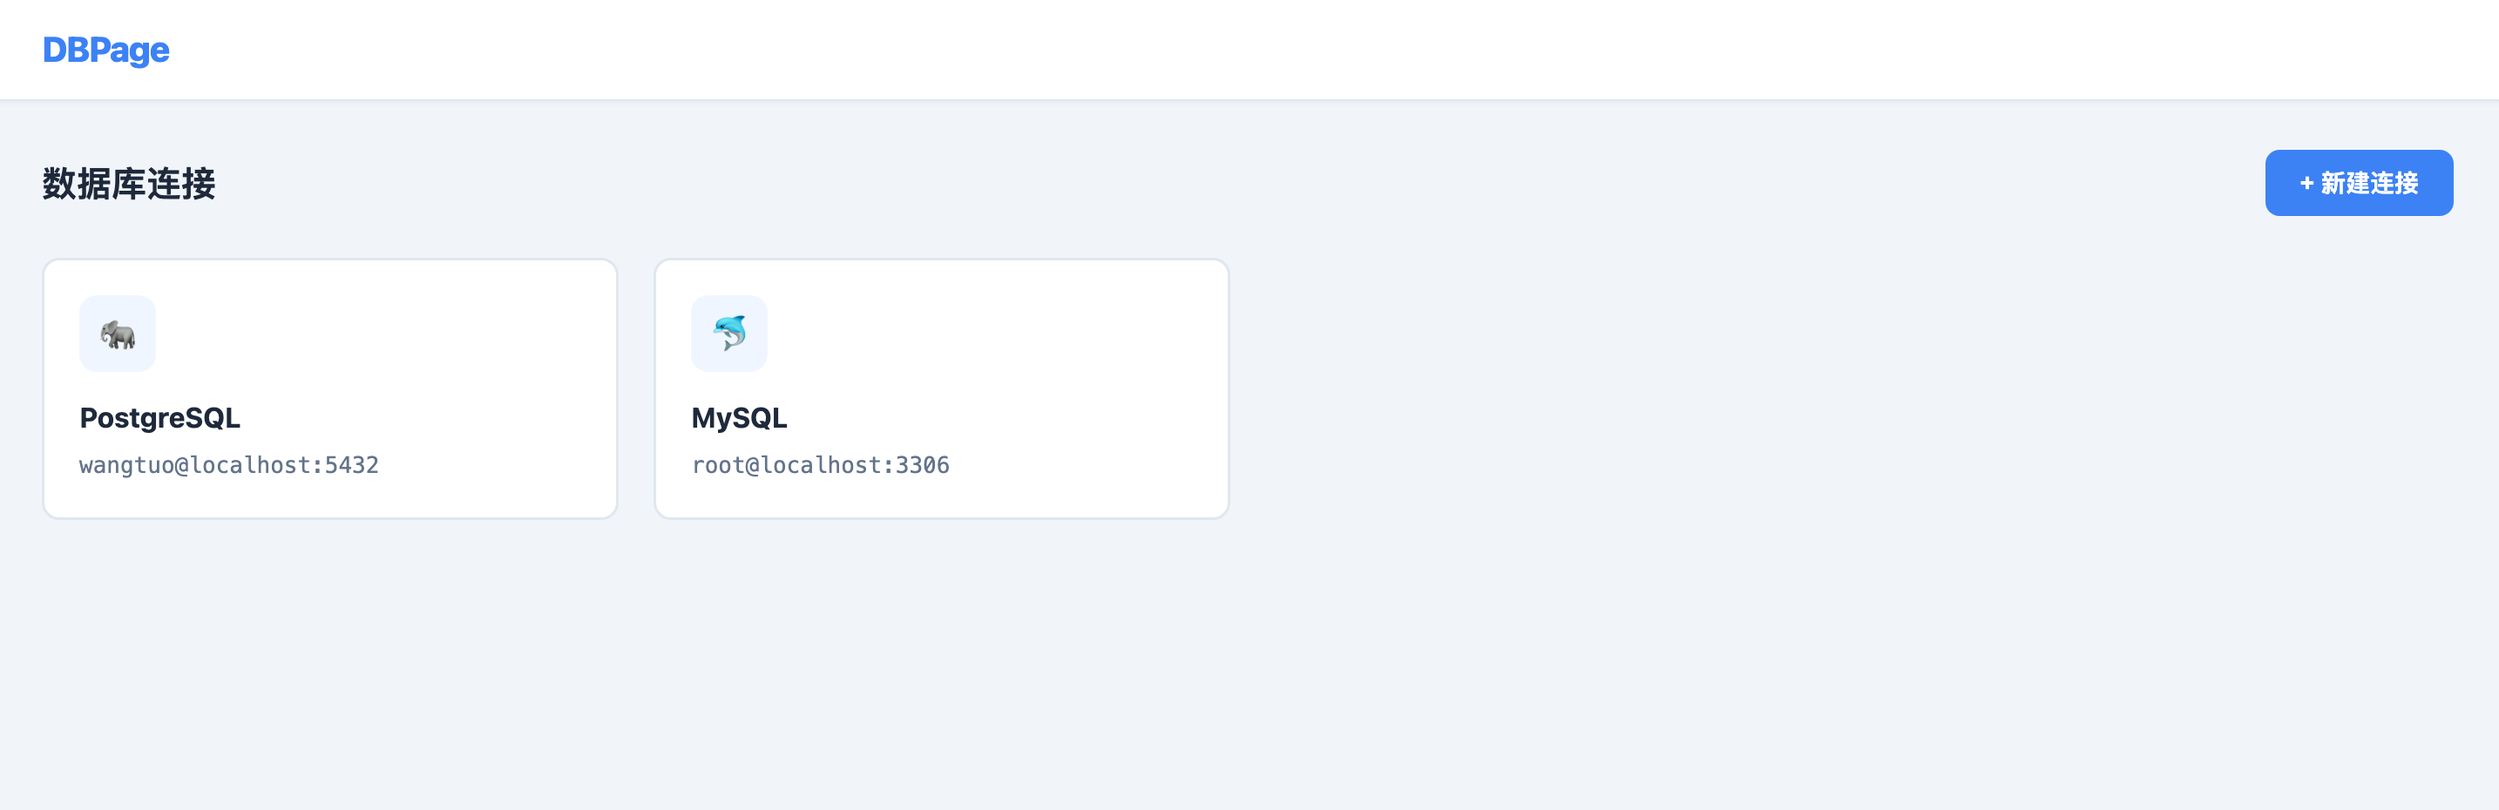
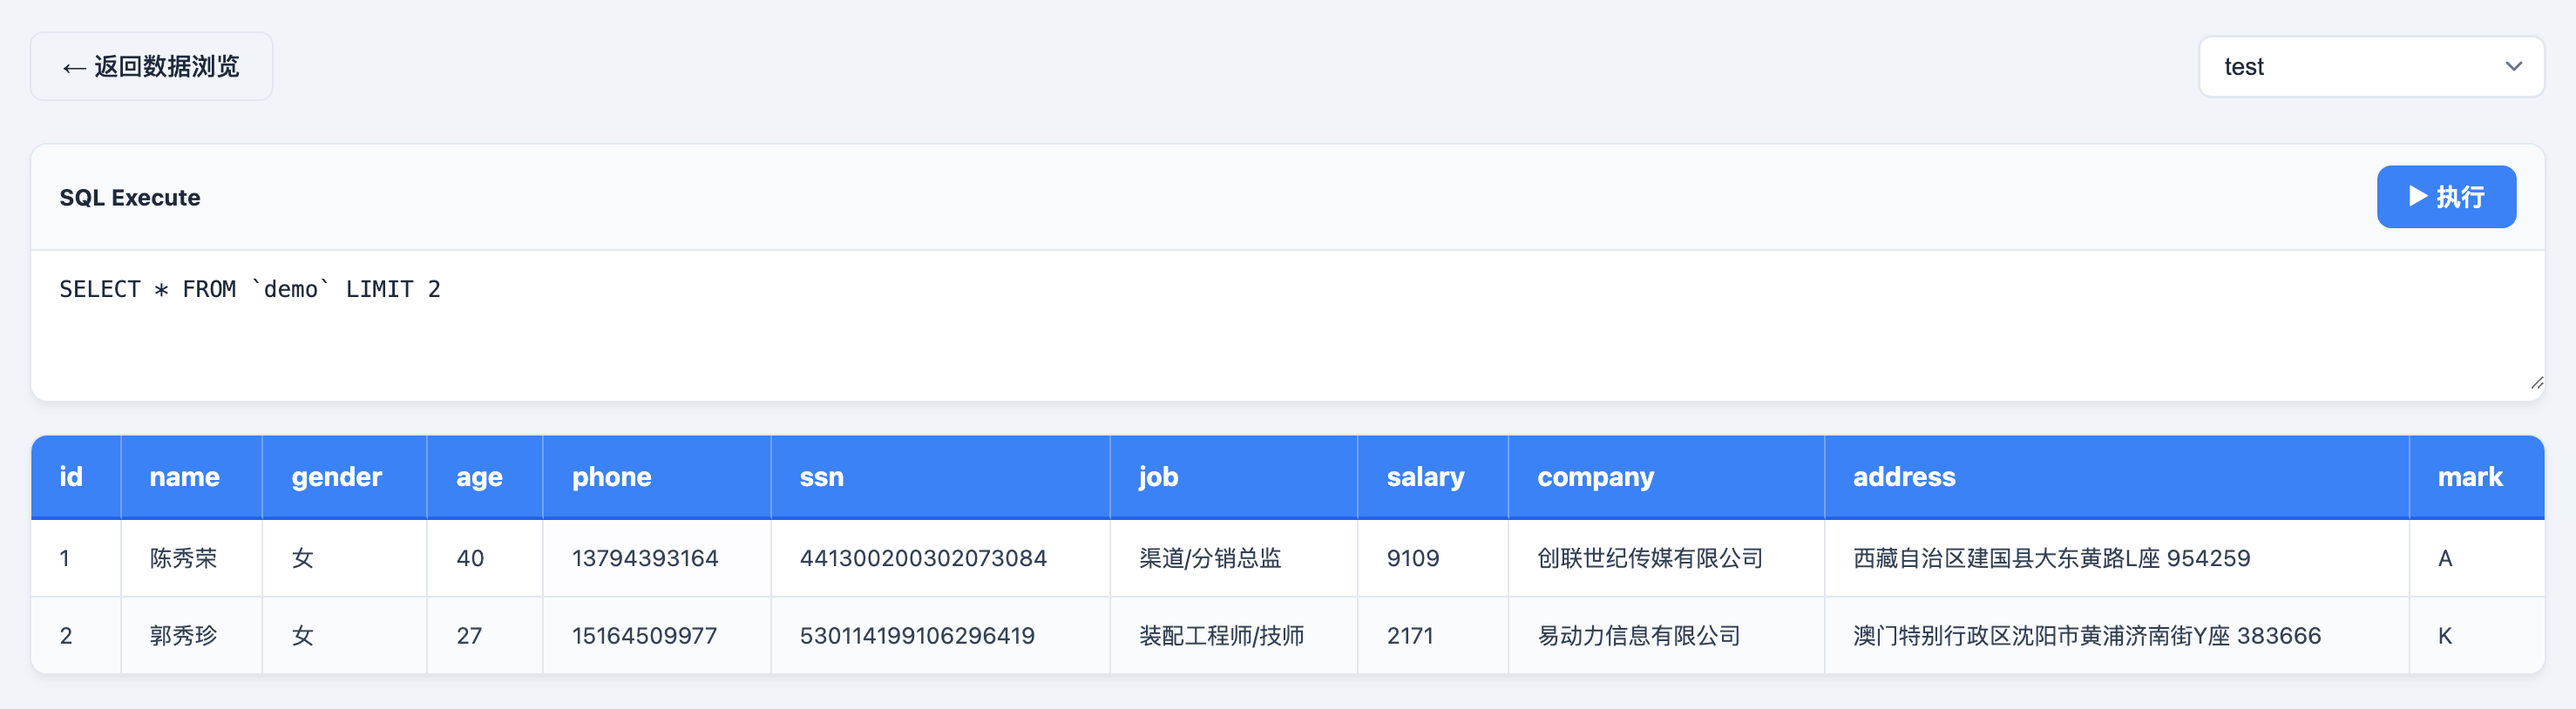
v0.3.1
更新 readme，修复了执行 SQL 后的结果也支持一键复制

diff --git a/templates/index.html b/templates/index.html
@@ -1,11 +1,14 @@
 <!DOCTYPE html>
 <html lang="zh-CN">
+
 <head>
     <meta charset="UTF-8">
     <meta name="viewport" content="width=device-width, initial-scale=1.0">
     <title>DBPage</title>
+    <link rel="icon" type="image/png" href="/static/database.png">
     <link rel="stylesheet" href="/static/css/style.css?v=2">
 </head>
+
 <body>
     <header>
         <div class="brand">DBPage</div>
@@ -46,19 +49,33 @@
                     共 <span id="row-total">0</span> 条
                 </div>
                 <div class="page-pills" id="page-pills">
-                  <button type="button" id="btn-first" aria-label="首页">
-                    <svg width="14" height="14" viewBox="0 0 24 24" fill="none" stroke="currentColor" stroke-width="2.5" stroke-linecap="round" stroke-linejoin="round"><path d="m11 17-5-5 5-5"/><path d="m18 17-5-5 5-5"/></svg>
-                  </button>
-                  <button type="button" id="btn-prev" aria-label="上一页">
-                    <svg width="14" height="14" viewBox="0 0 24 24" fill="none" stroke="currentColor" stroke-width="2.5" stroke-linecap="round" stroke-linejoin="round"><path d="m15 18-6-6 6-6"/></svg>
-                  </button>
-                  <div class="page-numbers" id="page-numbers"></div>
-                  <button type="button" id="btn-next" aria-label="下一页">
-                    <svg width="14" height="14" viewBox="0 0 24 24" fill="none" stroke="currentColor" stroke-width="2.5" stroke-linecap="round" stroke-linejoin="round"><path d="m9 18 6-6-6-6"/></svg>
-                  </button>
-                  <button type="button" id="btn-last" aria-label="尾页">
-                    <svg width="14" height="14" viewBox="0 0 24 24" fill="none" stroke="currentColor" stroke-width="2.5" stroke-linecap="round" stroke-linejoin="round"><path d="m13 17 5-5-5-5"/><path d="m6 17 5-5-5-5"/></svg>
-                  </button>
+                    <button type="button" id="btn-first" aria-label="首页">
+                        <svg width="14" height="14" viewBox="0 0 24 24" fill="none" stroke="currentColor"
+                            stroke-width="2.5" stroke-linecap="round" stroke-linejoin="round">
+                            <path d="m11 17-5-5 5-5" />
+                            <path d="m18 17-5-5 5-5" />
+                        </svg>
+                    </button>
+                    <button type="button" id="btn-prev" aria-label="上一页">
+                        <svg width="14" height="14" viewBox="0 0 24 24" fill="none" stroke="currentColor"
+                            stroke-width="2.5" stroke-linecap="round" stroke-linejoin="round">
+                            <path d="m15 18-6-6 6-6" />
+                        </svg>
+                    </button>
+                    <div class="page-numbers" id="page-numbers"></div>
+                    <button type="button" id="btn-next" aria-label="下一页">
+                        <svg width="14" height="14" viewBox="0 0 24 24" fill="none" stroke="currentColor"
+                            stroke-width="2.5" stroke-linecap="round" stroke-linejoin="round">
+                            <path d="m9 18 6-6-6-6" />
+                        </svg>
+                    </button>
+                    <button type="button" id="btn-last" aria-label="尾页">
+                        <svg width="14" height="14" viewBox="0 0 24 24" fill="none" stroke="currentColor"
+                            stroke-width="2.5" stroke-linecap="round" stroke-linejoin="round">
+                            <path d="m13 17 5-5-5-5" />
+                            <path d="m6 17 5-5-5-5" />
+                        </svg>
+                    </button>
                 </div>
                 <div class="page-size">
                     <label>每页</label>
@@ -155,4 +172,5 @@
     <div id="toast" class="toast hidden">已复制</div>
     <script src="/static/js/app.js?v=9"></script>
 </body>
+
 </html>

diff --git a/static/js/app.js b/static/js/app.js
@@ -485,7 +485,8 @@ document.getElementById('btn-run-sql').addEventListener('click', async () => {
         const tbody = document.querySelector('#sql-result-table tbody');
         if (data.columns.length) {
             thead.innerHTML = '<tr>' + data.columns.map(c => `<th>${escapeHtml(c)}</th>`).join('') + '</tr>';
-            tbody.innerHTML = data.data.map(row => '<tr>' + data.columns.map(c => `<td>${escapeHtml(String(row[c] ?? ''))}</td>`).join('') + '</tr>').join('');
+            tbody.innerHTML = data.data.map(row => '<tr>' + data.columns.map(c => `<td class="copyable-cell">${escapeHtml(String(row[c] ?? ''))}</td>`).join('') + '</tr>').join('');
+            tbody.querySelectorAll('td').forEach(td => td.addEventListener('click', () => copyCell(td)));
         } else {
             thead.innerHTML = '';
             tbody.innerHTML = `<tr><td colspan="100" class="empty">执行成功，影响 ${data.rowcount} 行</td></tr>`;

diff --git a/static/css/style.css b/static/css/style.css
@@ -197,6 +197,8 @@ tbody td { border-bottom: 1px solid var(--border); color: #334155; font-size: 13
 tbody tr:last-child td { border-bottom: none; }
 .editable-cell { cursor: pointer; transition: background 0.12s; position: relative; }
 .editable-cell:hover { background: #dbeafe; }
+.copyable-cell { cursor: pointer; transition: background 0.12s; }
+.copyable-cell:hover { background: #dbeafe; }
 .cell-editor {
   position: absolute;
   top: 0;
